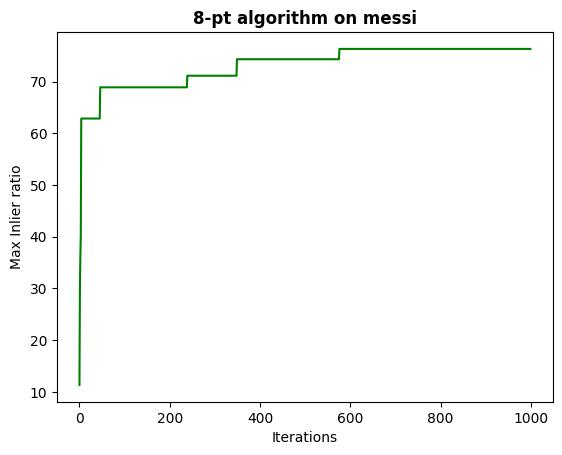
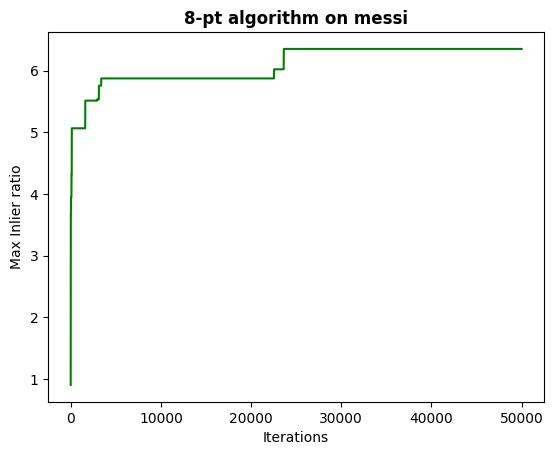
euler push

diff --git a/utils/cam_utils.py b/utils/cam_utils.py
@@ -1,0 +1,171 @@
+import numpy as np
+import cv2
+import pathlib
+import matplotlib.pyplot as plt
+
+
+def find_best_F_matrix(F_candidates, raw_pts1, raw_pts2):
+
+    indices = np.random.choice(len(raw_pts1), 7)
+    extra_pts_in_img1 = homogenize_points(raw_pts1[indices])
+    extra_pts_in_img2 = homogenize_points(raw_pts2[indices])
+
+    epipole_errors = []
+    for F_cand in F_candidates:
+        lines_prime = (F_cand @ extra_pts_in_img1.T).T  # l_prime = F * x
+
+        # find the epipolar points as points of intersections (subset of possible candidates)
+        pts_of_intersections = []
+        for i in range(len(lines_prime) - 1):
+            line_1 = lines_prime[i]
+            line_2 = lines_prime[i + 1]
+            pt_of_intersection = np.cross(line_1, line_2)
+            pts_of_intersections.append(pt_of_intersection)
+
+        pts_of_intersections = np.array(pts_of_intersections)
+        raw_epipole_error = np.mean(np.std(pts_of_intersections, axis=0))  # mean std deviation across all coeffs
+        epipole_errors.append(raw_epipole_error)
+
+    # raw_epipole_error should be zero for the ideal candidate
+    best_F_mat_index = np.argmin(epipole_errors)
+    return best_F_mat_index
+
+
+def solve_optimal_lambda_7_pt(F1_mat, F2_mat, T1, T2, raw_pts1, raw_pts2, rtol=1e-8):
+    det_fun = lambda l: np.linalg.det(l * F1_mat + (1 - l) * F2_mat)
+
+    a = np.zeros(4)
+    # evaluate the determinant at different values to get the coefficients of lambda
+    a[3] = det_fun(0)
+    a[1] = ((det_fun(1) + det_fun(-1)) / 2) - a[3]
+    a[0] = (det_fun(2) - 2 * a[1] + a[3] - 2 * det_fun(1)) / 6
+    a[2] = ((det_fun(1) - det_fun(-1)) / 2) - a[0]
+    all_roots = np.roots(a)
+
+    F_candidates = []
+    for root in all_roots:
+        if np.isreal(root) or abs(np.imag(root)) < rtol:  # it's a real root
+            lambda_coeff = np.real(root)
+            F_mat = lambda_coeff * F1_mat + (1 - lambda_coeff) * F2_mat
+            F_mat_denormed = T2.T @ F_mat @ T1  # Transform solution to pixel space
+            F_mat_denormed /= F_mat_denormed[-1, -1]
+            F_candidates.append(F_mat_denormed)
+
+    if len(F_candidates) == 1:
+        # print('Got only one valid fundamental matrix so choosing that')
+        best_F_mat_index = 0
+    else:
+        best_F_mat_index = find_best_F_matrix(F_candidates, raw_pts1, raw_pts2)
+
+    return F_candidates[best_F_mat_index]
+
+
+def compute_E_from_F(F_mat, K1, K2):
+    E_mat = K2.T @ F_mat @ K1
+    return E_mat
+
+
+def annotate_img_pts(img, points, colors, radius=10):
+    if isinstance(colors, np.ndarray):
+        colors = colors.tolist()
+
+    for pt, color in zip(points, colors):
+        cv2.circle(img, pt.astype(int), radius=radius, color=color, thickness=cv2.FILLED)
+    return img
+
+
+def annotate_img_lines(img, lines_prime, colors, thickness=None):
+    img_h, img_w = img.shape[:2]
+    if thickness is None:
+        thickness = img_w // 100
+    if isinstance(colors, np.ndarray):
+        colors = colors.tolist()
+
+    for (l_1, l_2, l_3), color in zip(lines_prime, colors):
+        pt1 = (0, int(-l_3 / l_2))
+        pt2 = (img_w, int(- (l_3 + l_1 * img_w) / l_2))
+        cv2.line(img, pt1, pt2, color, thickness=thickness)
+    return img
+
+
+def save_ransac_plot(inlier_logger, img_name, num_pts, save_path):
+    plt.plot(inlier_logger * 100, '-', color='g')
+    plt.title(f'{num_pts}-pt algorithm on {img_name}', fontweight="bold")
+    plt.xlabel('Iterations')
+    plt.ylabel("Max Inlier ratio")
+    plt.savefig(save_path, bbox_inches='tight')
+    plt.close()
+
+
+def save_images(images, titles, save_path, size=(2, 2), fig_w=10, fig_h=10):
+    _, axes = plt.subplots(*size, figsize=(fig_w, fig_h), constrained_layout=True)
+
+    r, c = size
+    for i in range(r):
+        for j in range(c):
+            if r == 1 or c == 1:
+                ax = axes[i + j]
+            else:
+                ax = axes[i, j]
+            ax.set_title(titles[i * c + j], fontweight="bold")
+            ax.imshow(cv2.cvtColor(images[i * c + j], cv2.COLOR_BGR2RGB))
+            ax.set_xticks([])
+            ax.set_yticks([])
+
+    plt.savefig(save_path)
+    plt.close()
+
+
+def read_data(path):
+    file_extension = pathlib.Path(path).suffix
+
+    if file_extension == '.txt':
+        data = np.loadtxt(path)
+    elif file_extension == '.npy' or file_extension == '.npz':
+        data = np.load(path)
+    else:
+        raise ValueError(f'unsupported file type for{path}')
+    return data
+
+
+def homogenize_points(pts):
+    if pts.shape[1] == 2:
+        return np.column_stack([pts, np.ones(len(pts))])  # [n x 2] -> [n x 3]
+    elif pts.shape[1] == 3:
+        return pts
+    else:
+        raise ValueError(f'Invalid input points shape while homogenizing: array of shape {pts.shape}')
+
+
+def sim_normalized_points(pts):
+    pts_homo = homogenize_points(pts)
+
+    # from lecture 11 slide 20
+    # https://www.dropbox.com/scl/fi/6ssokgdylwtjs11qy5ajy/L11_Two_view_Calibration.pdf?rlkey=qqug6w22lpx1gig6mp7kptwrw&dl=0
+    x_centroid, y_centroid = np.mean(pts, axis=0)
+    d_avg = np.mean(np.linalg.norm(pts - np.array([x_centroid, y_centroid]), axis=1))
+    s = np.sqrt(2) / d_avg
+
+    T_mat = np.array([
+        [s, 0, - s * x_centroid],
+        [0, s, - s * y_centroid],
+        [0, 0, 1]
+    ])
+
+    normalized_pts = (T_mat @ pts_homo.T).T
+    return T_mat, normalized_pts
+
+
+def bmatrix(a):
+    """Returns a LaTeX bmatrix
+
+    :a: numpy array
+    :returns: LaTeX bmatrix as a string
+    """
+    if len(a.shape) > 2:
+        raise ValueError('bmatrix can at most display two dimensions')
+    lines = str(a).replace('[', '').replace(']', '').splitlines()
+    rv = [r'\begin{bmatrix}']
+    rv += ['  ' + ' & '.join(l.split()) + r'\\' for l in lines]
+    rv +=  [r'\end{bmatrix}']
+    return '\n'.join(rv)

diff --git a/utils/cam_extract.py b/utils/cam_extract.py
@@ -1,0 +1,67 @@
+import cv2
+import numpy as np
+import cam_utils as utils
+import math
+
+def compute_E_from_F(F_mat, K1, K2):
+    E_mat = K2.T @ F_mat @ K1
+    return E_mat
+
+
+def compute_rt(K1_mat, K2_mat, F_mat, correspondences):
+
+    E_mat = compute_E_from_F(F_mat, K1=K1_mat, K2=K2_mat)
+
+    raw_pts1, raw_pts2 = correspondences[:, :2], correspondences[:, 2:]
+    pts1 = raw_pts1[:, ::-1]  # front
+    pts2 = raw_pts2[:, ::-1]  # back
+
+
+    # correspondences is [N x 4]
+    points, R_mat, t_mat, mask = cv2.recoverPose(E_mat, np.float32(pts2), np.float32(pts1), K1_mat, 50)
+    return R_mat, t_mat
+
+
+def r_to_euler(pose_mat):
+    cosine_for_pitch = math.sqrt(pose_mat[0][0] ** 2 + pose_mat[1][0] ** 2)
+    is_singular = cosine_for_pitch < 10**-6
+    if not is_singular:
+        yaw = math.atan2(pose_mat[1][0], pose_mat[0][0])
+        pitch = math.atan2(-pose_mat[2][0], cosine_for_pitch)
+        roll = math.atan2(pose_mat[2][1], pose_mat[2][2])
+    else:
+        yaw = math.atan2(-pose_mat[1][2], pose_mat[1][1])
+        pitch = math.atan2(-pose_mat[2][0], cosine_for_pitch)
+        roll = 0
+    # xyz_angles = [np.rad2deg(pitch), np.rad2deg(roll), np.rad2deg(yaw)]
+    return [np.rad2deg(roll), np.rad2deg(pitch), np.rad2deg(yaw)]
+
+if __name__ =='__main__':
+    """
+    [[ 0.51128958 -0.01874729 -0.859204  ]
+     [-0.85933165  0.00221703 -0.51141392]
+     [ 0.01149251  0.9998218  -0.01497659]]
+     
+     [[-0.51138646]
+     [ 0.85934243]
+     [ 0.00380577]]
+    """
+
+    correspondences = utils.read_data(r'D:\adev\virtual-correspondences\images\messi\correspondences.npy')
+    F_mat = utils.read_data(r'D:\adev\virtual-correspondences\images\out\messi_f_mat.npy')
+
+    K1_mat = np.array([
+        [1.0311, 0, 0],
+        [0, 1, 0],
+        [0, 0, 1],
+    ])
+
+    K2_mat = np.array([
+        [1, 0, 0],
+        [0, 1.2522, 0],
+        [0, 0, 1],
+    ])
+
+    R_mat, t_mat = compute_rt(K1_mat, K2_mat, F_mat, correspondences)
+    print(R_mat, t_mat)
+    print(r_to_euler(R_mat))

diff --git a/fun_calc/fun_compute.py b/fun_calc/fun_compute.py
@@ -5,10 +5,10 @@ import numpy as np
 import fun_utils as utils
 from tqdm import tqdm
 
-NUM_ITERS = 1000
-ERROR_TOL = 6  # messi 7 (rad 10), kobe 20 (rad 20), gwh 6 (rad 20)
-IN_DIR = r'C:\Users\krish\Downloads\images'
-OUT_DIR = r'C:\Users\krish\Downloads\images\out'
+NUM_ITERS = 50000
+ERROR_TOL = 0.3  # messi 7 (rad 10), kobe 20 (rad 20), gwh 6 (rad 20)
+IN_DIR = r'D:\adev\virtual-correspondences\images'
+OUT_DIR = r'D:\adev\virtual-correspondences\images\out'
 
 
 def _line_point_distances(lines, pts):
@@ -77,9 +77,9 @@ def comput_F_ransac(file_name, roi, num_pts=8):
         raise ValueError(f'Invalid path for the input image pair')
     raw_correspondences = utils.read_data(raw_corresp_path)
 
-    if len(raw_correspondences) >  40000:
-        nn = np.random.choice(len(raw_correspondences), 40000)
-        raw_correspondences = raw_correspondences[nn]
+    # if len(raw_correspondences) >  40000:
+    #     nn = np.random.choice(len(raw_correspondences), 40000)
+    #     raw_correspondences = raw_correspondences[nn]
 
     raw_pts1, raw_pts2 = raw_correspondences[:, :2], raw_correspondences[:, 2:]
     raw_pts1 = raw_pts1[:, ::-1]
@@ -168,7 +168,7 @@ if __name__ =='__main__':
         ('kobe-dwade', [0, 0, 0, 0]),
         ('gwhunting', [0, 0, 0, 0]),
     ]
-    for file_name, roi in dir_rois[2:]:
+    for file_name, roi in dir_rois[:1]:
         print('\n\n', '*'*10, file_name, '*'*10)
 
         F_mat = comput_F_ransac(file_name, roi=None)

diff --git a/baseline/sift/sift.py b/baseline/sift/sift.py
@@ -3,8 +3,8 @@ import numpy as np
 from typing import Optional
 
 def sift_matcher(img1: np.ndarray, img2: np.ndarray, max_matches: Optional[int] = None, verbose: bool=False) -> np.ndarray:
-    img1 = cv2.cvtColor(img1, cv2.COLOR_BGR2GRAY)
-    img2 = cv2.cvtColor(img2, cv2.COLOR_BGR2GRAY)
+    # img1 = cv2.cvtColor(img1, cv2.COLOR_BGR2GRAY)
+    # img2 = cv2.cvtColor(img2, cv2.COLOR_BGR2GRAY)
 
     sift = cv2.SIFT_create()
 
@@ -42,8 +42,11 @@ def sift_matcher(img1: np.ndarray, img2: np.ndarray, max_matches: Optional[int] 
 
 
 if __name__ == '__main__':
-    img1 = cv2.imread('../images/yuna/Screen Shot 2023-12-02 at 3.48.02 PM.png')
-    img2 = cv2.imread('../images/yuna/Screen Shot 2023-12-02 at 3.48.20 PM.png')
+    # img1 = cv2.imread('../images/yuna/Screen Shot 2023-12-02 at 3.48.02 PM.png')
+    # img2 = cv2.imread('../images/yuna/Screen Shot 2023-12-02 at 3.48.20 PM.png')
+
+    img1 = cv2.imread(r'D:\adev\virtual-correspondences\images\kobe-dwade\front.jpg')
+    img2 = cv2.imread(r'D:\adev\virtual-correspondences\images\kobe-dwade\back.jpg')
 
     img1 = cv2.resize(img1, (600, 600), interpolation = cv2.INTER_LINEAR)
     img2 = cv2.resize(img2, (600, 600), interpolation = cv2.INTER_LINEAR)
